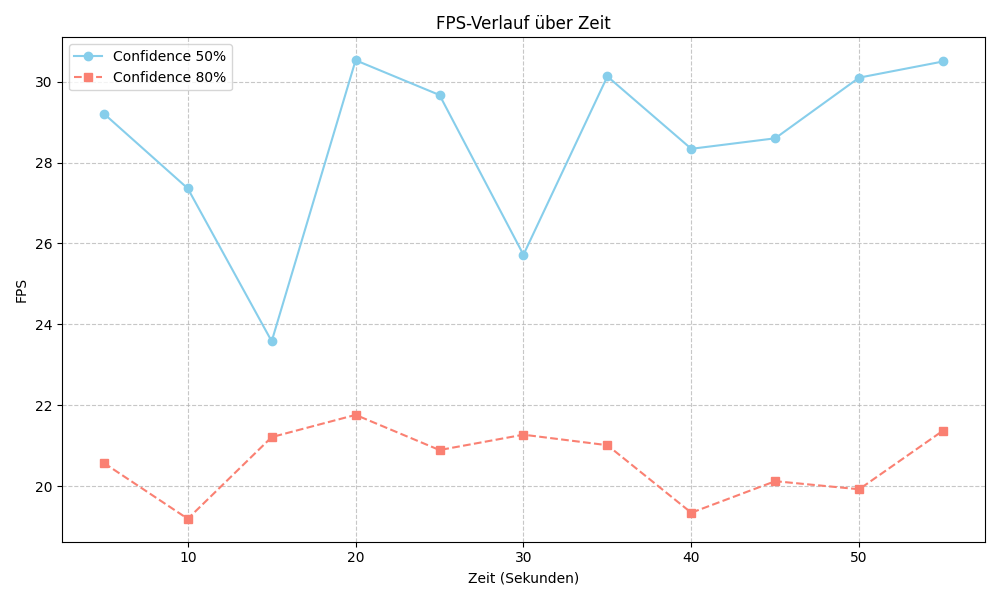
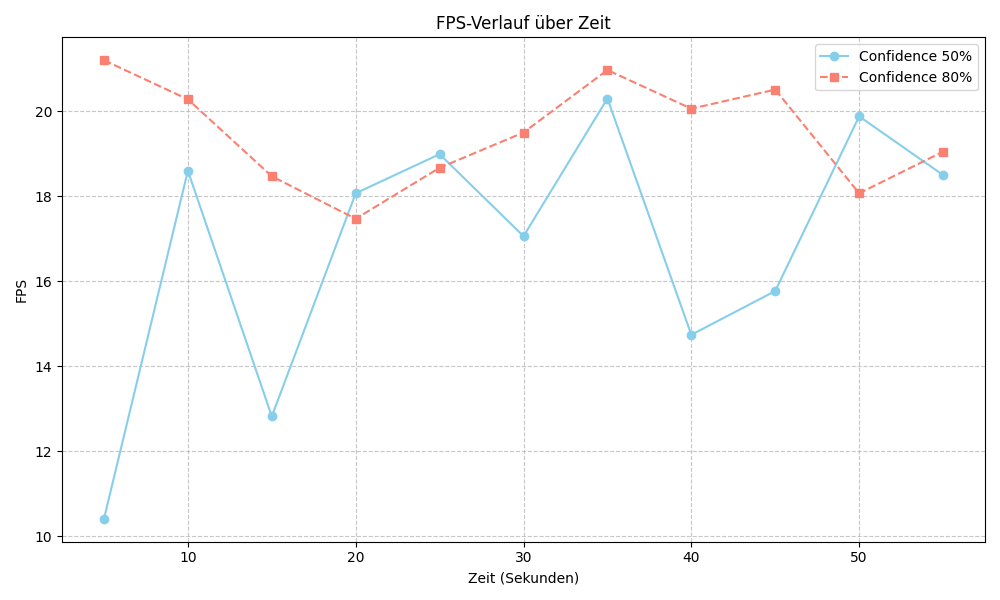
codeerklärung, anwendungsfall, richtige werte für mediapipe fps

diff --git a/src/final_report/content/methodik.tex b/src/final_report/content/methodik.tex
@@ -184,7 +184,7 @@ Das vorgestellte System kombiniert die Geschwindigkeit und Präzision moderner Y
 Für die Gesichtspunkterkennung haben wir uns für das Face Mesh Modell von Mediapipe entschieden. Bei diesem Modell sieht man alle 468 3D-Gesichtspunkte in Echtzeit. Die Bereitstellung der Punkte in 3D-Koordinaten eröffnet vielfältige Anwendungsmöglichkeiten, von der Gesichtswiedererkennung über die Emotionsanalyse bis hin zu Augmented Reality-Erlebnissen.
 
 (?) Der vollständige Code, der die hier beschriebene Gesichtspunkt-Erkennung mit MediaPipe implementiert, ist im Anhang und/oder auf GitHub verfügbar.
-Der ganze Code ist in Python geschrieben. 
+Der ganze Code ist in Python geschrieben.
 
 Zunächst müssen wir notwendigen die Bibliotheken importieren. Diese sind in unserem Fall die OpenCV und MediaPipe-Bibliotheken.
 Danach initialisieren wir die MediaPipe-Instanz. Dies geschieht mit dem folgenden Code:
@@ -214,7 +214,7 @@ Ein wichtiger Schritt ist die Konvertierung des Farbraums des aufgenommenen Bild
 Diese Konvertierung ist notwendig, da unterschiedliche Bibliotheken und Modelle intern mit verschiedenen Farbreihenfolgen arbeiten. Die Verwendung der falschen Reihenfolge kann zu fehlerhaften Ergebnissen führen.
 
 Nun verarbeitet MediaPipe das in RGB konvertierte Bild, um Gesichter zu erkennen und die entsprechenden Gesichtspunkte zu lokalisieren.
- 
+
 Sobald ein oder mehrere Gesichter im Bild erkannt wurden, zeichnen wir die 468 Gesichtspunkte und die Verbindungen zwischen ihnen auf das ursprüngliche Farbbild.
 \begin{lstlisting}
     if results.multi_face_landmarks:
@@ -242,6 +242,39 @@ Schließlich wird das mit den eingezeichneten Gesichtspunkten versehene Bild ang
 Dieser Code bildet die Grundlage für unsere Gesichtswiedererkennung.
 
 \paragraph{Gesichtswiedererkennung mit Gesichtspunkten: Code}
+
+Unser System zur Echtzeit-Gesichtserkennung nutzt MediaPipe Face Mesh, um Gesichter in Videostreams präzise zu erkennen.
+Seine Funktionalität umfasst das Erlernen und Speichern neuer Gesichter, das Wiedererkennen bekannter Personen und die Fähigkeit zum kontinuierlichen Dazulernen, wodurch sich die Erkennungsleistung stetig verbessert.
+
+Im Kern des Systems steht die Initialisierung, in der das MediaPipe Face Mesh-Modul eingerichtet und die Kamera gestartet wird.
+Zudem werden Speicherstrukturen für die Namen bekannter Gesichter und deren charakteristische Gesichtspunkte (Landmarks) vorbereitet.
+
+Die eigentliche Gesichtserkennung erfolgt durch die Funktion extract\_face\_landmarks. Diese nutzt MediaPipe, um detaillierte Gesichtsmerkmale zu extrahieren, wobei ein besonderer Fokus auf 50 Schlüsselpunkte in den Bereichen Augen, Nase, Mund und Augenbrauen liegt.
+Um eine konsistente Erkennung zu gewährleisten, werden die Koordinaten dieser Punkte normalisiert.
+
+Für den Gesichtsvergleich kommt die Methode recognize\_face zum Einsatz. Sie vergleicht neu erkannte Gesichtsmerkmale mit den gespeicherten Daten.
+Dabei werden gewichtete Abstände zwischen den Punkten berechnet, wobei einzelnen Gesichtsregionen – insbesondere den Augen – höhere Bedeutung zugewiesen wird, was die Genauigkeit der Erkennung erhöht.
+
+Der Lernprozess des Systems ist zweigeteilt. Zum einen können Benutzer aktiv ein neues Gesicht speichern, indem sie auf einen "Learn Face"-Button klicken oder eine bestimmte Taste drücken.
+Zum anderen verfügt das System über ein kontinuierliches Lernen: es ergänzt automatisch neue Gesichtsdaten, sofern diese genügend unterschiedlich zu bestehenden Samples sind.
+Eine Diversitätsprüfung stellt sicher, dass keine redundanten Daten gespeichert werden.
+
+Die Hauptschleife des Systems verarbeitet kontinuierlich neue Kamerabilder. Darin werden Gesichter erkannt, Landmark-Daten extrahiert, Vergleiche durchgeführt, Ergebnisse angezeigt und Benutzereingaben verarbeitet.
+
+Besondere Features des Systems tragen wesentlich zur hohen Leistungsfähigkeit bei:
+\begin{itemize}
+    \item Gewichtete Erkennung steigert die Genauigkeit.
+    \item Kontinuierliches Lernen verbessert die Erkennung über die Zeit
+    \item Diversitätsprüfung verhindert das Speichern ähnlicher Gesichtsausdrücke.
+    \item Konsistenzprüfung über mehrere Frames verringert Fehlerkennungen.
+    \item Outlier-Bereinigung sorgt für saubere Datensätze.
+\end{itemize}
+
+Das Benutzerinterface ermöglicht eine einfache Interaktion.
+Erkannte Gesichter werden mit Name und Konfidenzwert angezeigt, und neue Gesichter können bequem gelernt werden.
+
+Die Gesichtsmerkmale werden lokal gespeichert, wobei Pickle zur Serialisierung genutzt wird. Dadurch werden bekannte Gesichter beim nächsten Start automatisch wieder geladen.
+
 
 \paragraph{Metriken}
 Für die Bewertung der Gesichtspunkterkennung mit MediaPipe haben wir folgende Metriken genutzt, da wird diese am Ende auch noch mit YOLO vergleichen möchten:
@@ -292,6 +325,28 @@ Die Gegenüberstellung der Leistung bei unterschiedlichen Confidence-Werten in A
 \end{figure}
 
 \paragraph{Anwendungsbeispiel: Zutrittskontrollen}
+
+Mediapipe bietet zwar grundlegende Funktionen zur Gesichtserkennung, weist jedoch erhebliche Einschränkungen bei der zuverlässigen Wiedererkennung von Personen auf. 
+Während unser System Gesichter erkennen und deren Merkmale (Landmarks) identifizieren kann, ist es primär für die Erkennung der Gesichtsstruktur konzipiert und nicht für die biometrische Identifikation.
+
+Ein wesentliches Problem ist die langsame Anpassungsfähigkeit. Bei schnellen Bewegungen kann unser System die Wiedererkennung verlieren, wodurch Nutzer gezwungen sind, eine Position zu finden, in der sie erneut erkannt werden. 
+Die verwendete Landmark-Distanz-Methode erweist sich als besonders empfindlich: Selbst kleine Veränderungen im Gesichtsausdruck, bei Lichtverhältnissen oder der Perspektive können die Lage der Gesichtspunkte signifikant beeinflussen und damit die Wiedererkennung erschweren.
+
+Zudem fehlen wichtige Sicherheitsfunktionen. Es gibt keinen Schutz gegen einfache Täuschungsversuche, beispielsweise könnte jemand ein Foto hochhalten und das System würde dies als echtes Gesicht erkennen. 
+Dies macht die Technologie deutlich weniger robust als moderne Face-Recognition-Methoden. Auch die Verwaltung mehrerer Nutzerprofile würde bei diesem einfachen Ansatz schnell komplex und fehleranfällig werden.
+
+Mediapipe wurde eigentlich für andere Anwendungsbereiche entwickelt, insbesondere für Augmented Reality-Anwendungen, bei denen es darum geht, virtuelle Elemente auf Gesichter zu projizieren. 
+Seine Stärke liegt in der präzisen Erkennung von Gesichtspunkten, nicht in der Identifikation bestimmter Personen.
+
+Für eine zuverlässige Zutrittskontrolle wären zusätzliche Komponenten erforderlich:
+\begin{itemize}
+    \item Ein Vergleichssystem mit Face Embeddings und Klassifikationsalgorithmen
+    \item Lebenderkennung, um Angriffe mit Fotos oder Videos zu verhindern
+    \item Ein zuverlässiges Management-System für gespeicherte Nutzerprofile
+\end{itemize}
+
+Zusammenfassend kann Mediapipe durchaus als Baustein für einfache Zugangskontrollen in nicht-kritischen Bereichen dienen (etwa für private Projekte), ist jedoch für sicherheitsrelevante Anwendungen ohne erhebliche Erweiterungen und Kombinationen mit anderen Technologien nicht geeignet. 
+Die Stärken des Systems liegen eindeutig in der grundlegenden Gesichtserkennung, während für die zuverlässige Wiedererkennung und Identifikation von Personen fortgeschrittenere Lösungen notwendig sind.
 
 \subsubsection{Vergleich von YOLO und MediaPipe}
 \paragraph{Confidence Score}

diff --git a/src/final_report/diagrams/fps_mediapipe_test2.py b/src/final_report/diagrams/fps_mediapipe_test2.py
@@ -3,8 +3,8 @@ import numpy as np
 
 # Für Liniendiagramm (FPS über Zeit)
 times = [5, 10, 15, 20, 25, 30, 35, 40, 45, 50, 55]
-fps_conf_05 = [29.21, 27.36, 23.58, 30.53, 29.67, 25.72, 30.13, 28.34, 28.6, 30.1, 30.5]
-fps_conf_08 = [20.57, 19.19, 21.21, 21.76, 20.89, 21.27, 21.01, 19.34, 20.12, 19.92, 21.37]
+fps_conf_05 = [10.41, 18.6, 12.82, 18.07, 18.99, 17.06, 20.3, 14.74, 15.77, 19.88, 18.5]
+fps_conf_08 = [21.2, 20.28, 18.47, 17.47, 18.67, 19.5, 20.97, 20.06, 20.51, 18.07, 19.05]
 
 # --- Liniendiagramm erstellen ---
 

diff --git a/src/final_report/diagrams/fps_mediapipe_test1.py b/src/final_report/diagrams/fps_mediapipe_test1.py
@@ -5,8 +5,8 @@ import numpy as np
 
 # Für Balkendiagramm (Durchschnittswerte)
 labels = ['FPS Ø', 'Verarbeitungszeit Ø (ms)', 'Stabilität (%)']
-confidence_05 = [27.16, 8.81, 97.73]
-confidence_08 = [20.6, 12.68, 99.0]
+confidence_05 = [16.83, 15.18, 97.73]
+confidence_08 = [20.6, 12.02, 98.27]
 
 
 

diff --git a/src/final_report/main.tex b/src/final_report/main.tex
@@ -44,8 +44,6 @@
   breakatwhitespace=true,
   tabsize=4,
   showstringspaces=false
-  moredelim=**[is][\color{mygreen}]{@@}{@@}
-  escapeinside={@@}{@@}
 }
 
 
